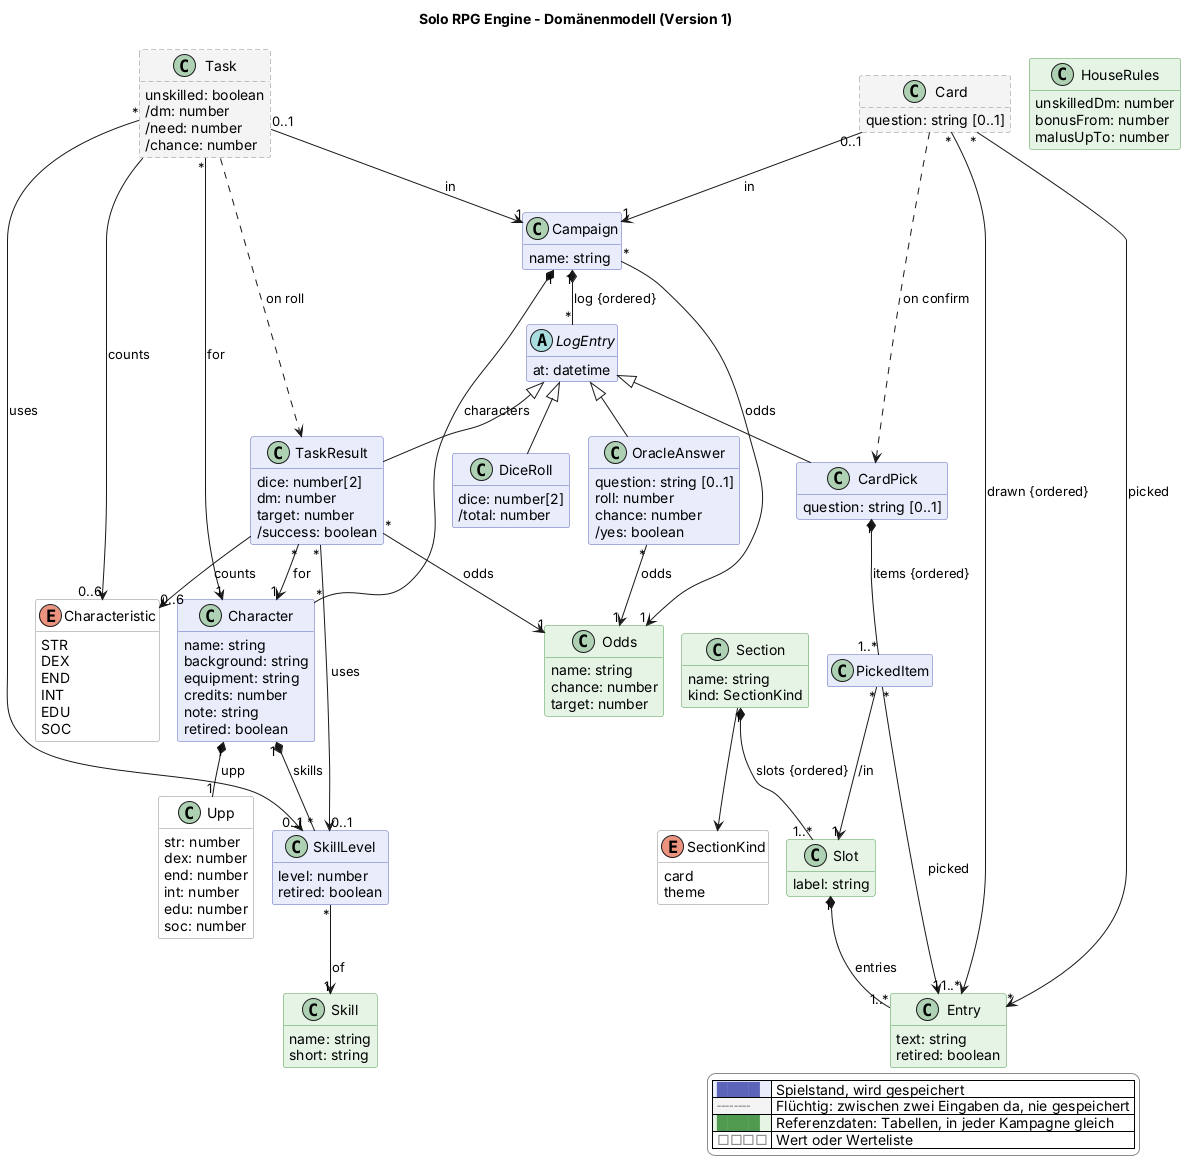
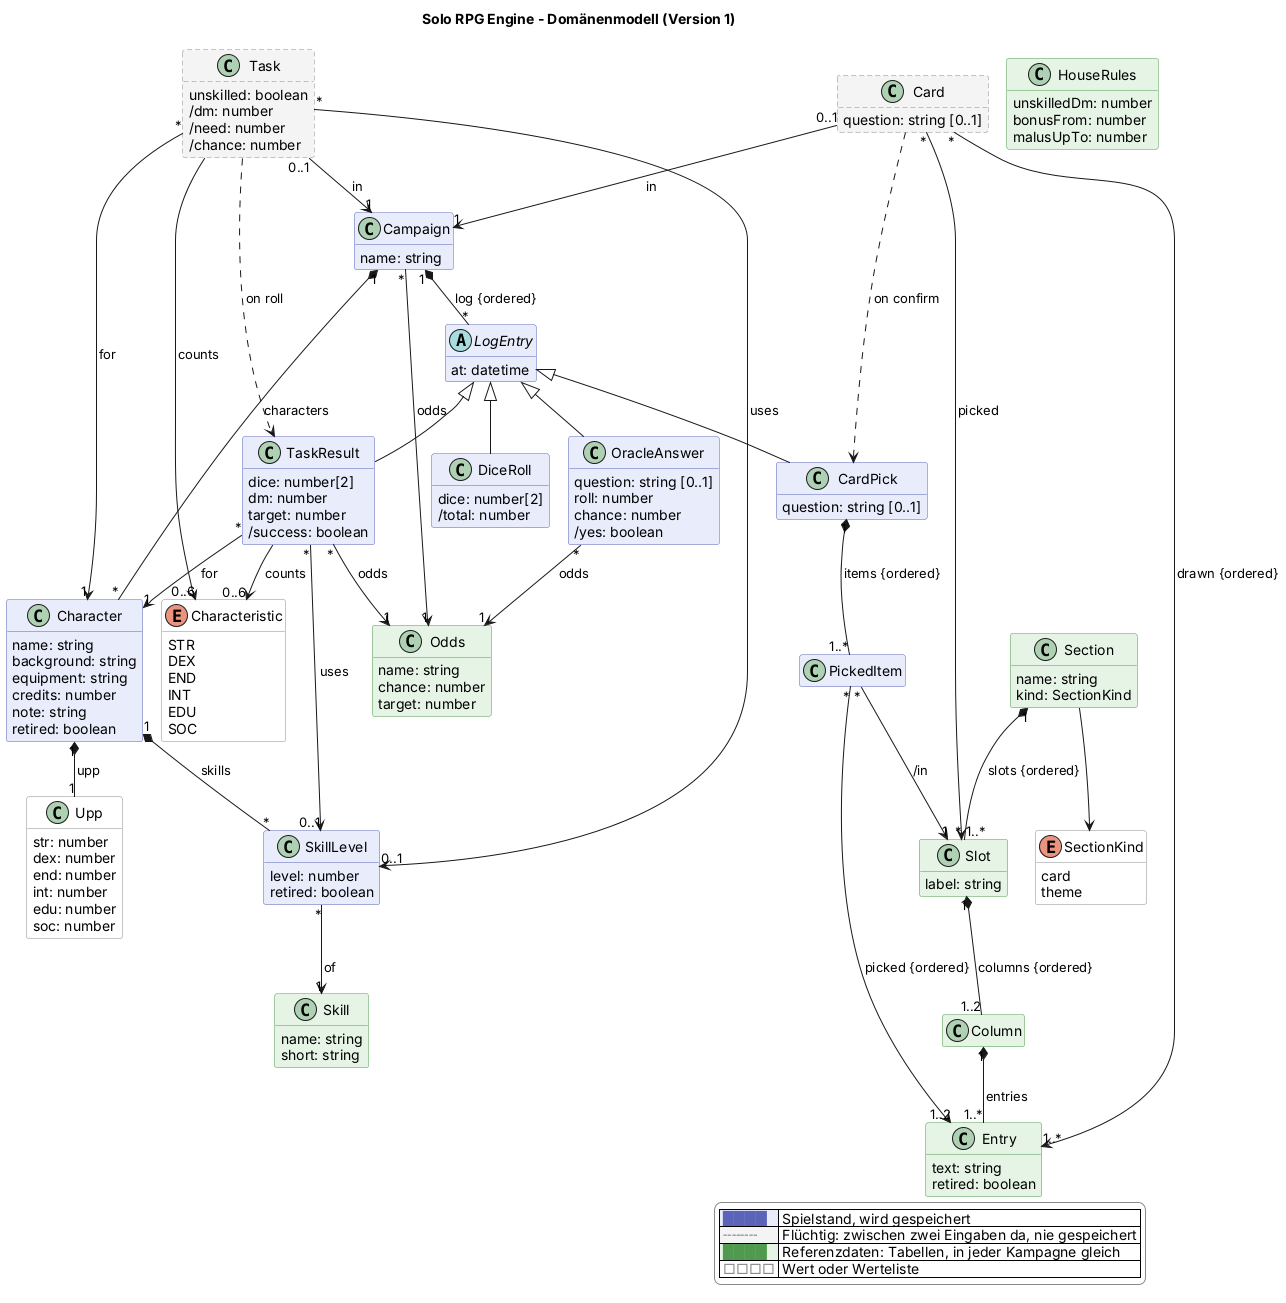
Modell: Spalten und Paare auf der Karte (in Abstimmung)
Ein Feld hat eine oder zwei Spalten. Ein Feld mit zwei Spalten zieht
ein Paar, das man nur ganz auswählen kann; das PickedItem verweist auf
beide Einträge. Jede Mythic-Tabelle wird ein Feld mit zwei Spalten.

Claude-Session: https://claude.ai/code/session_01QnmAKcxjboHcV7mhjeDndK

diff --git a/docs/domain-model.md b/docs/domain-model.md
@@ -9,6 +9,10 @@ Lücken unter [Wo der Code noch nicht folgt](#wo-der-code-noch-nicht-folgt).
 > beschriebenen Weg: erst hier, abgestimmt, dann im Code. Seitdem freigegeben: `Entry.retired`
 > (24. Oktober 2026, siehe *Einträge austauschen*); ausgeblendete Felder und Bereiche (ebenso).
 >
+> **In Abstimmung** (24. Oktober 2026): Spalten und Paare. Ein Feld hat eine oder zwei Spalten
+> (`Column`); ein Feld mit zwei Spalten zieht ein Paar, das man immer ganz nimmt (siehe
+> *Karte ziehen*, *Paare aus Mythic*).
+>
 > **Zurzeit** hat die Karte nur die Felder mit Einträgen aus Mythic: Verb, Adjektiv und Substantiv
 > des Zufallsereignisses, Hören und Riechen sowie die Themen-Reiter NSC, Welt, Schiff, Wesen und
 > Handlung mit Mythics Elements-Tabellen. Alle übrigen Felder und Bereiche sind ausgeblendet, bis es
@@ -55,7 +59,9 @@ Vacc Suit, Jack-of-all-Trades, …), Terms, Cr.
 | Probe | `Task` | Eine Probe, solange sie im Charakter-Screen vorbereitet wird |
 | Probenergebnis | `TaskResult` | Eine gewürfelte Probe |
 | Bereich der Karte, Themen-Reiter | `Section` | Zufallsereignis, Sinneseindrücke, …; Auftrag, NSC, … |
-| Feld der Karte | `Slot` | Verb, Hören, Name, Auslöser, … |
+| Feld der Karte | `Slot` | Aktion, Hören, Aussehen, Name, Auslöser, … |
+| Spalte | `Column` | Eine Liste von Einträgen in einem Feld; ein Feld hat eine oder zwei |
+| Paar | (zwei Einträge im `drawn` eines Feldes) | Was ein Feld mit zwei Spalten zieht: aus jeder Spalte einen Eintrag, z. B. „verraten · Technologie“ |
 | Eintrag | `Entry` | Ein möglicher Text eines Feldes, z. B. „Schulden begleichen.“ |
 
 ## Regeln, die das Bild nicht zeigt
@@ -97,21 +103,23 @@ Vacc Suit, Jack-of-all-Trades, …), Terms, Cr.
   Ja oder Nein (`/yes`: `roll` ≤ `chance`) folgt allein daraus, nie aus dem heutigen Stand der Stufe.
   Die Frage ist freiwillig. „Außergewöhnlich Ja/Nein“, Chaosfaktor und Zufallsereignisse nach Mythic
   kommen erst nach Version 1.
-- **Karte ziehen.** Ziehen legt eine `Card` an: für jedes Feld aller Bereiche einen seiner nicht
-  ausgeblendeten Einträge zufällig (`drawn`), die Themen-Reiter eingeschlossen, in der Reihenfolge der Bereiche und Felder.
-  Felder ohne solchen Eintrag übergeht es (siehe *Einträge austauschen*).
+- **Karte ziehen.** Ziehen legt eine `Card` an: für jedes Feld aller Bereiche aus jeder seiner
+  Spalten einen nicht ausgeblendeten Eintrag zufällig (`drawn`), die Themen-Reiter eingeschlossen,
+  in der Reihenfolge der Bereiche, Felder und Spalten. Ein Feld mit zwei Spalten zieht so ein
+  **Paar**. Ausgeblendete Felder übergeht es (siehe *Einträge austauschen*).
   Eine gestellte Frage geht auf die Karte über. Der Bereich *Namen* hat drei Felder mit je eigenen
   Einträgen (eher weiblich, eher männlich, neutral bzw. Genre-Name), wie auf der GMA-Karte; so sind
   die drei Namen immer verschieden.
-- **Die Karte ist offen, bis man sie bestätigt oder verwirft.** Antippen nimmt einen gezogenen
-  Eintrag in die Auswahl (`picked`) auf oder wieder heraus; ausgewählt sein kann nur, was gezogen
-  wurde. *Verwerfen* schließt die Karte ohne Logeintrag. *Neu ziehen* ersetzt sie durch eine neue;
+- **Die Karte ist offen, bis man sie bestätigt oder verwirft.** Antippen nimmt ein gezogenes Feld
+  in die Auswahl (`picked`) auf oder wieder heraus, mit allem, was es gezogen hat: Ein Paar nimmt
+  man immer ganz, nie einen Begriff allein. Ausgewählt sein kann nur ein Feld, das gezogen wurde. *Verwerfen* schließt die Karte ohne Logeintrag. *Neu ziehen* ersetzt sie durch eine neue;
   die Auswahl geht verloren, die Frage bleibt.
-- **Bestätigen** geht erst, wenn mindestens ein Eintrag ausgewählt ist; ohne Auswahl bleibt nur
-  Verwerfen. Es legt einen `CardPick` mit der Frage der Karte an und darin je ausgewähltem Eintrag
+- **Bestätigen** geht erst, wenn mindestens ein Feld ausgewählt ist; ohne Auswahl bleibt nur
+  Verwerfen. Es legt einen `CardPick` mit der Frage der Karte an und darin je ausgewähltem Feld
   ein `PickedItem`, in der Reihenfolge der Karte; danach ist die Karte zu. Das `PickedItem` verweist
-  auf den gezogenen Eintrag (`Entry`); das Feld (`/in`) folgt daraus, weil jeder Eintrag zu genau
-  einem Feld gehört.
+  auf die gezogenen Einträge des Feldes, beim Paar auf beide in der Reihenfolge der Spalten; das
+  Feld (`/in`) folgt daraus, weil jeder Eintrag zu genau einer Spalte und jede Spalte zu genau
+  einem Feld gehört. Ältere `PickedItem`s mit nur einem Eintrag bleiben gültig.
 - **Probe.** Es gilt: 2W6 + Fertigkeit + gewählte Attribute ≥ Zielwert.
   - Zuerst wählt man die Fertigkeit: eine Fertigkeitsstufe des Charakters (DM = Stufe) oder „ohne
     Fertigkeit“ (DM aus den Hausregeln, −3). Solange keine gewählt ist, gibt es keine Probe zu
@@ -150,16 +158,21 @@ Vacc Suit, Jack-of-all-Trades, …), Terms, Cr.
   in der App. Pfeile führen nur aus Spielstand
   und Entwürfen in die Referenzdaten, nie zurück. Die Einträge sind eigene Inhalte oder stammen aus
   Mythic GME 2e (Lizenz CC BY-NC, ins Deutsche übersetzt), nie aus den Texten des GMA-Decks.
-- **Zwei Begriffe je Mythic-Tabelle.** Aus einer Elements-Tabelle zieht man wie bei Mythic zwei
-  Begriffe. Dafür hat der Bereich zwei Felder mit gleicher Beschriftung, jedes mit eigenen Einträgen
-  (wie bei *Namen*), sodass jeder Eintrag zu genau einem Feld gehört. Die beiden Begriffe können
-  gleich ausfallen. In den Daten steht jede Tabelle nur einmal (`src/data/mythic-tables.json`);
-  die zwei Felder entstehen beim Laden.
+- **Paare aus Mythic.** Mythic zieht aus seinen Bedeutungstabellen immer zwei Begriffe, die man
+  zusammen deutet. Jede Mythic-Tabelle ist deshalb ein Feld mit zwei Spalten:
+  - *Actions* und *Descriptions* haben selbst zwei Spalten. Im Zufallsereignis werden sie zu den
+    Feldern *Aktion* (Verb · Substantiv) und *Beschreibung* (Adverb · Adjektiv).
+  - Eine *Elements*-Tabelle hat eine Spalte, aus der Mythic zweimal zieht. Ihr Feld hat zwei
+    Spalten mit demselben Inhalt, jede mit eigenen Einträgen, sodass jeder Eintrag zu genau einer
+    Spalte gehört. Die beiden Begriffe können gleich ausfallen.
+
+  In den Daten steht jede Tabelle nur einmal (`src/data/mythic-tables.json`); die Spalten entstehen
+  beim Laden.
 - **Einträge austauschen.** Ein Eintrag, der nicht mehr gezogen werden soll, wird nicht gelöscht und
   seine Id nicht neu vergeben, sondern ausgeblendet (`retired`): Ziehen übergeht ihn, alte
   Logeinträge zeigen ihn weiter mit seinem Text. Ob ein Log auf ihn verweist, weiß nur das jeweilige
-  Gerät; deshalb wird jeder ausgetauschte Eintrag ausgeblendet. Sind alle Einträge eines Feldes
-  ausgeblendet, ist das Feld ausgeblendet: Ziehen übergeht es, die Karte zeigt es nicht, und ein
+  Gerät; deshalb wird jeder ausgetauschte Eintrag ausgeblendet. Hat eine Spalte nur ausgeblendete
+  Einträge, ist ihr Feld ausgeblendet: Ziehen übergeht es, die Karte zeigt es nicht, und ein
   Bereich ohne sichtbares Feld fehlt auf der Karte ganz. Der Log zeigt alte Einträge daraus weiter.
   Mindestens ein Feld hat einen Eintrag, der nicht ausgeblendet ist.
 
@@ -171,6 +184,7 @@ Diagramm mit diesen Ausnahmen:
 - **`Card → Campaign : in` und `Task → Campaign : in`** sind im Code kein Feld. Der Controller hält
   höchstens eine offene Karte und höchstens eine Probe neben der einen Kampagne; damit ist die
   Multiplizität erfüllt. Kommen mehrere Kampagnen, braucht es das Feld.
+- **Spalten und Paare** gibt es im Code noch nicht; die Änderung ist in Abstimmung.
 - **Beispielcharaktere.** Eine neue Kampagne beginnt mit Kira Vant und Jonas Reyl aus der README
   (`src/data/examples.json`). Das Modell sagt dazu nichts; die beiden lassen sich löschen, solange
   der Log nicht auf sie verweist.
